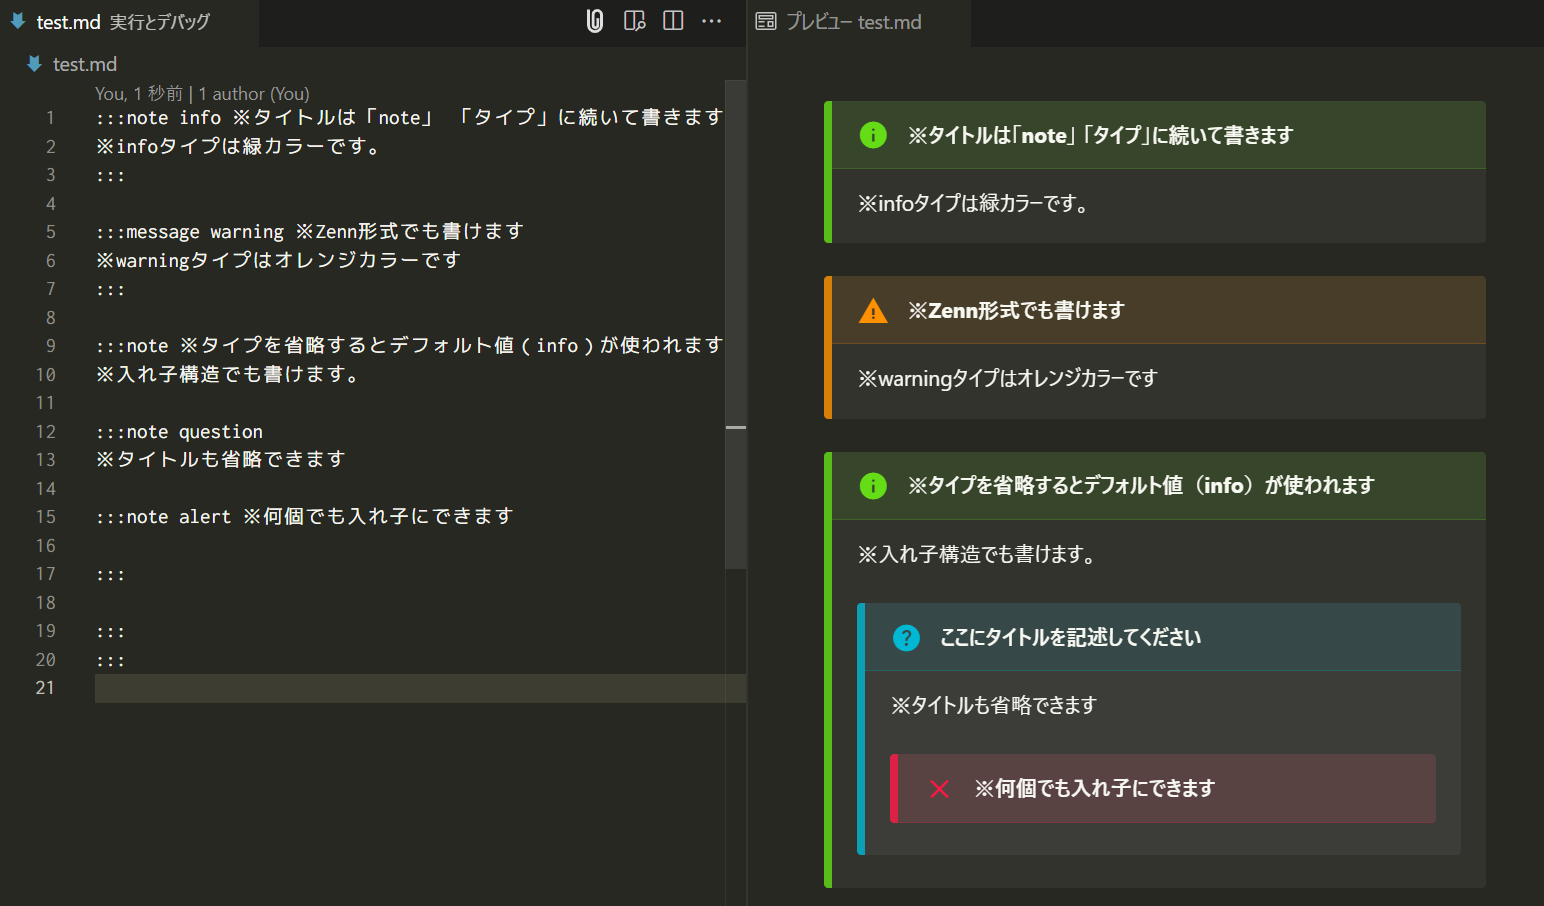
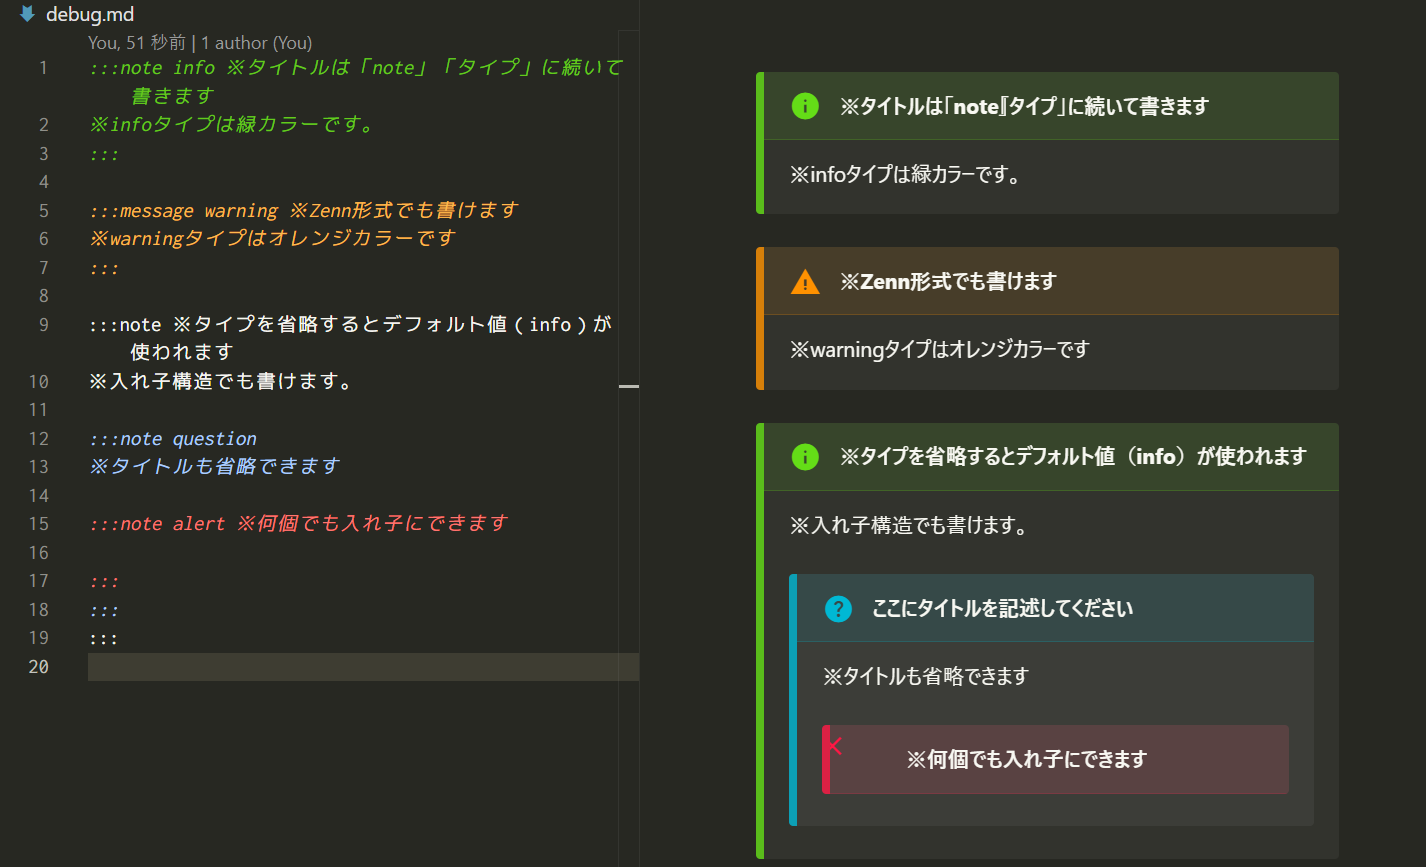
feature: シンタックスハイライト追加

diff --git a/README.en.md b/README.en.md
@@ -25,7 +25,7 @@ Using this extension, you can easily add [Qiita](https://qiita.com/) or [Zenn](h
 Enter “**Markdown Info**” in the VScode marketplace.
 
 <p align="center">
-<img src="./images/setup.png"/>
+<img src="images/setup.png" width="70%"/>
 </p>
 
 ## Quick usage

diff --git a/README.md b/README.md
@@ -27,7 +27,7 @@
 VScodeのマーケットプレイスで「**Markdown Info**」と入力してください｡
 
 <p align="center">
-<img src="./images/setup.png"/>
+<img src="images/setup.png" width="70%"/>
 </p>
 
 ## 使い方

diff --git a/CHANGELOG.md b/CHANGELOG.md
@@ -1,4 +1,7 @@
 # Change Log
 
+## v1.1.0
+- シンタックスハイライトに対応
+
 ## v1.0.0
 - Initial release
